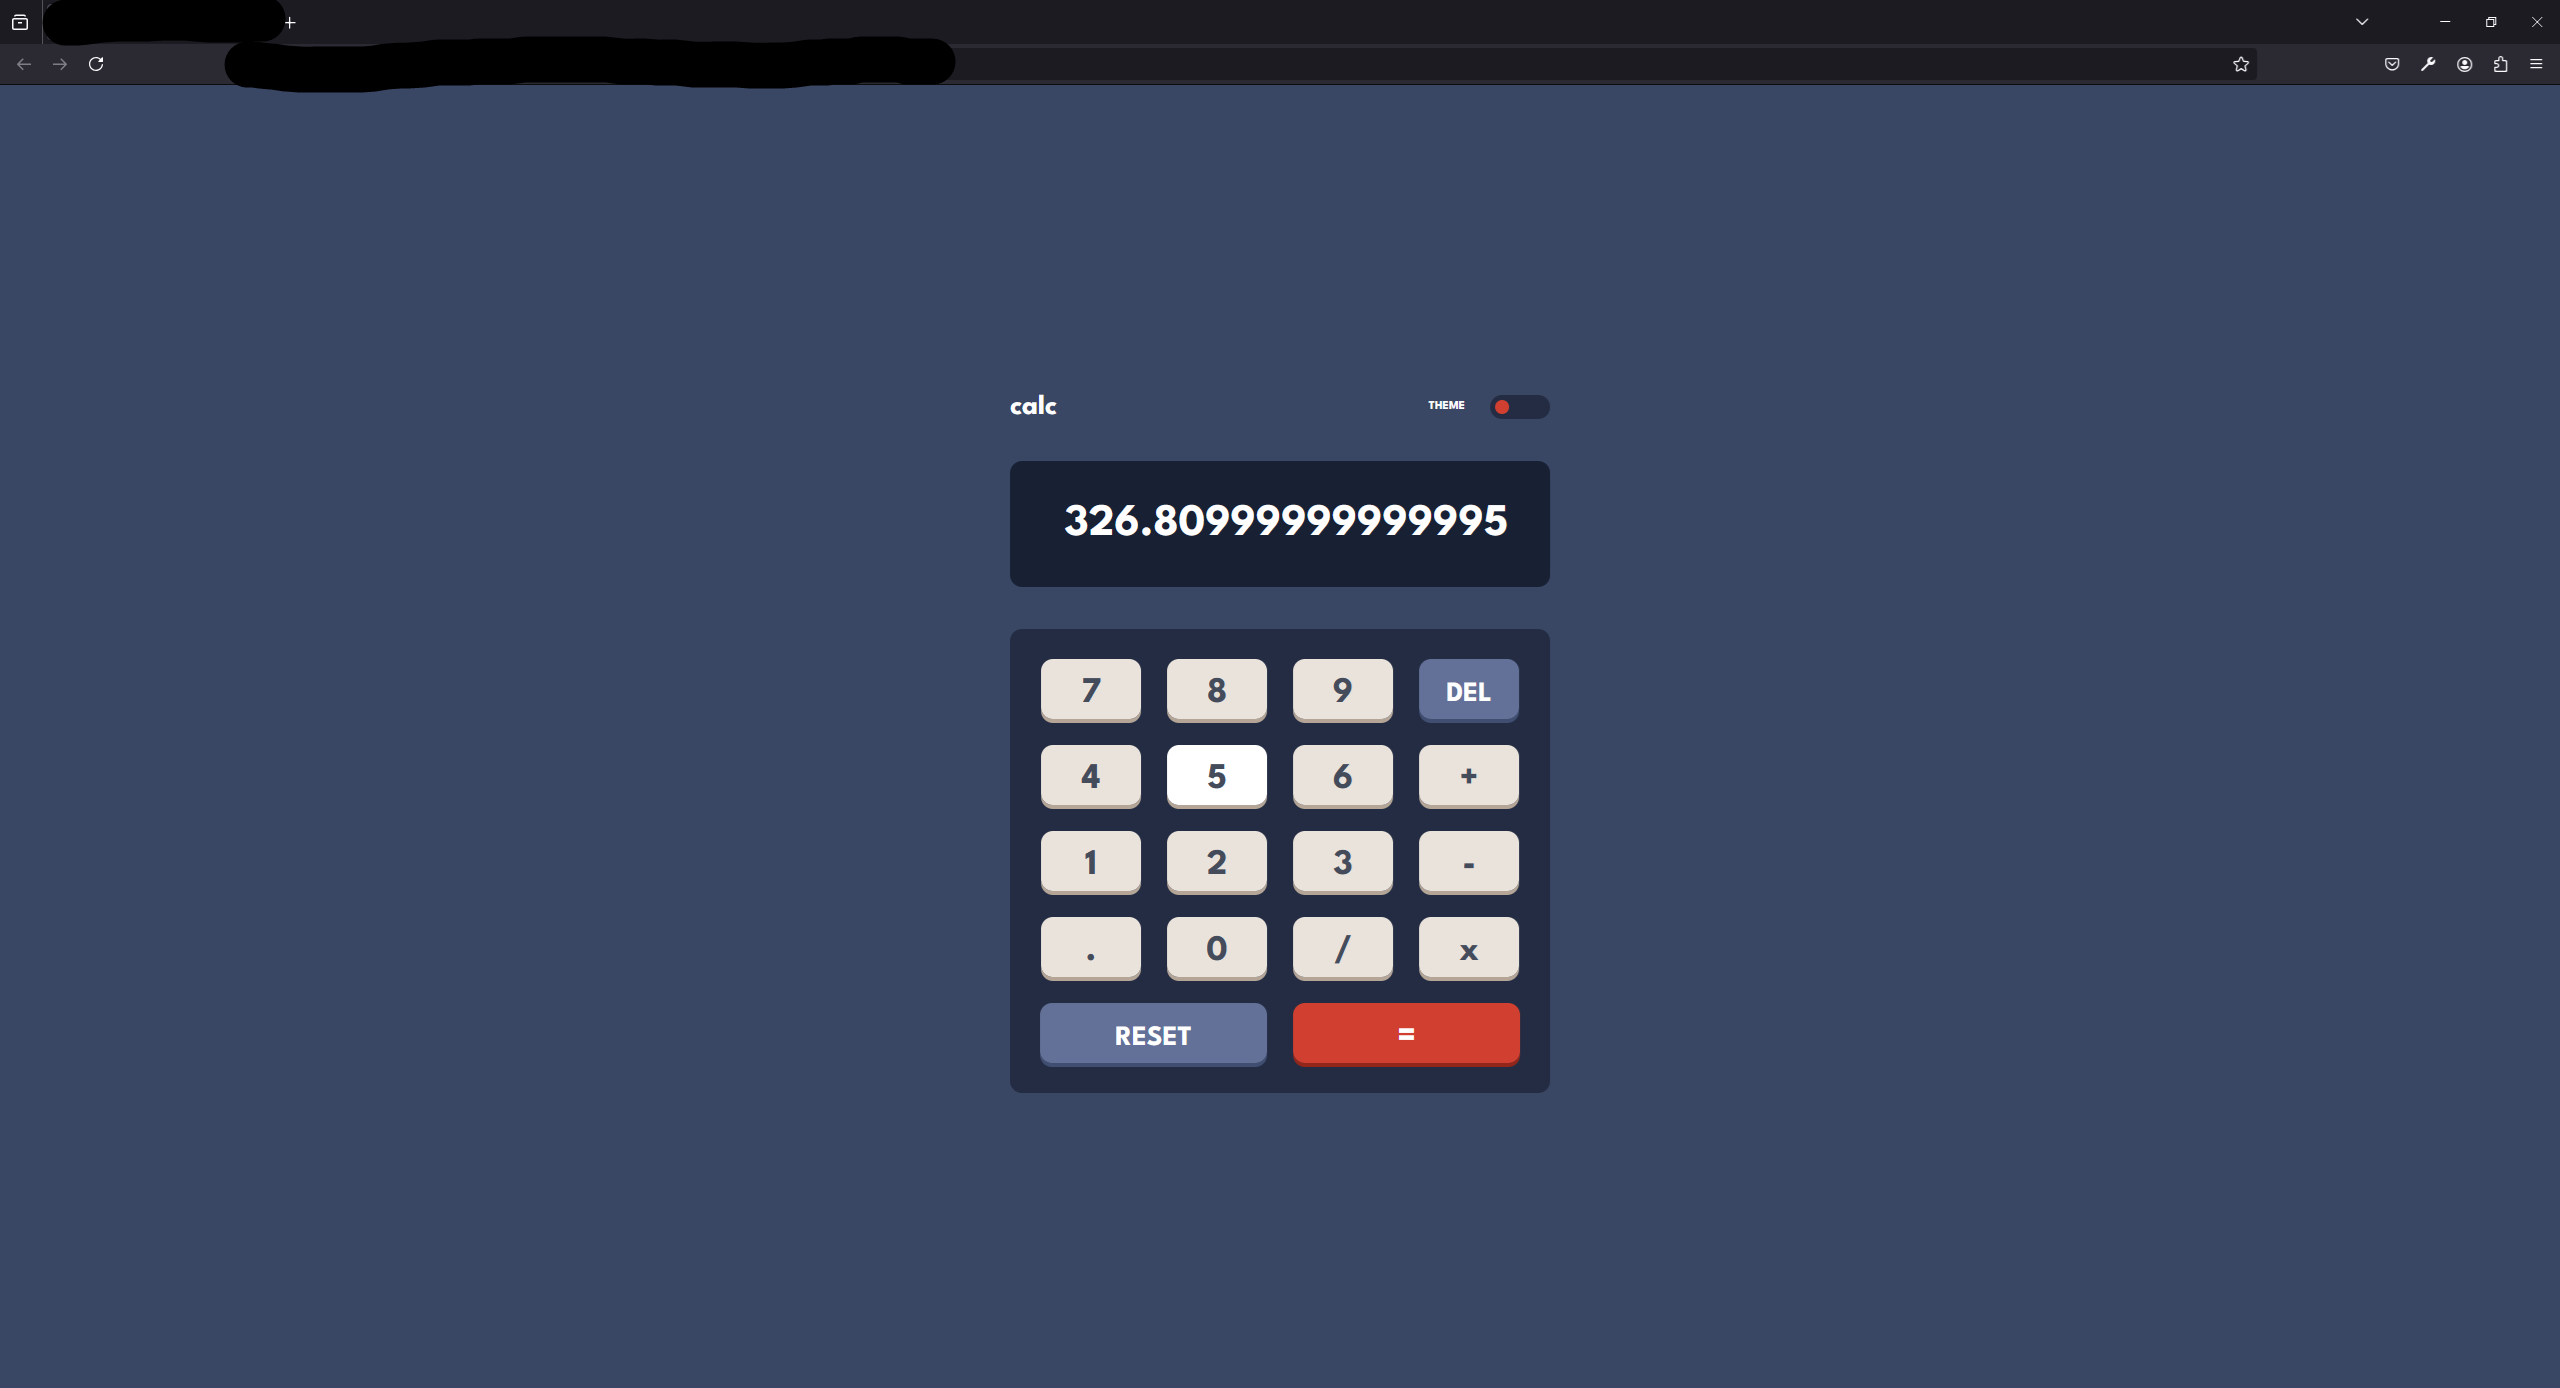
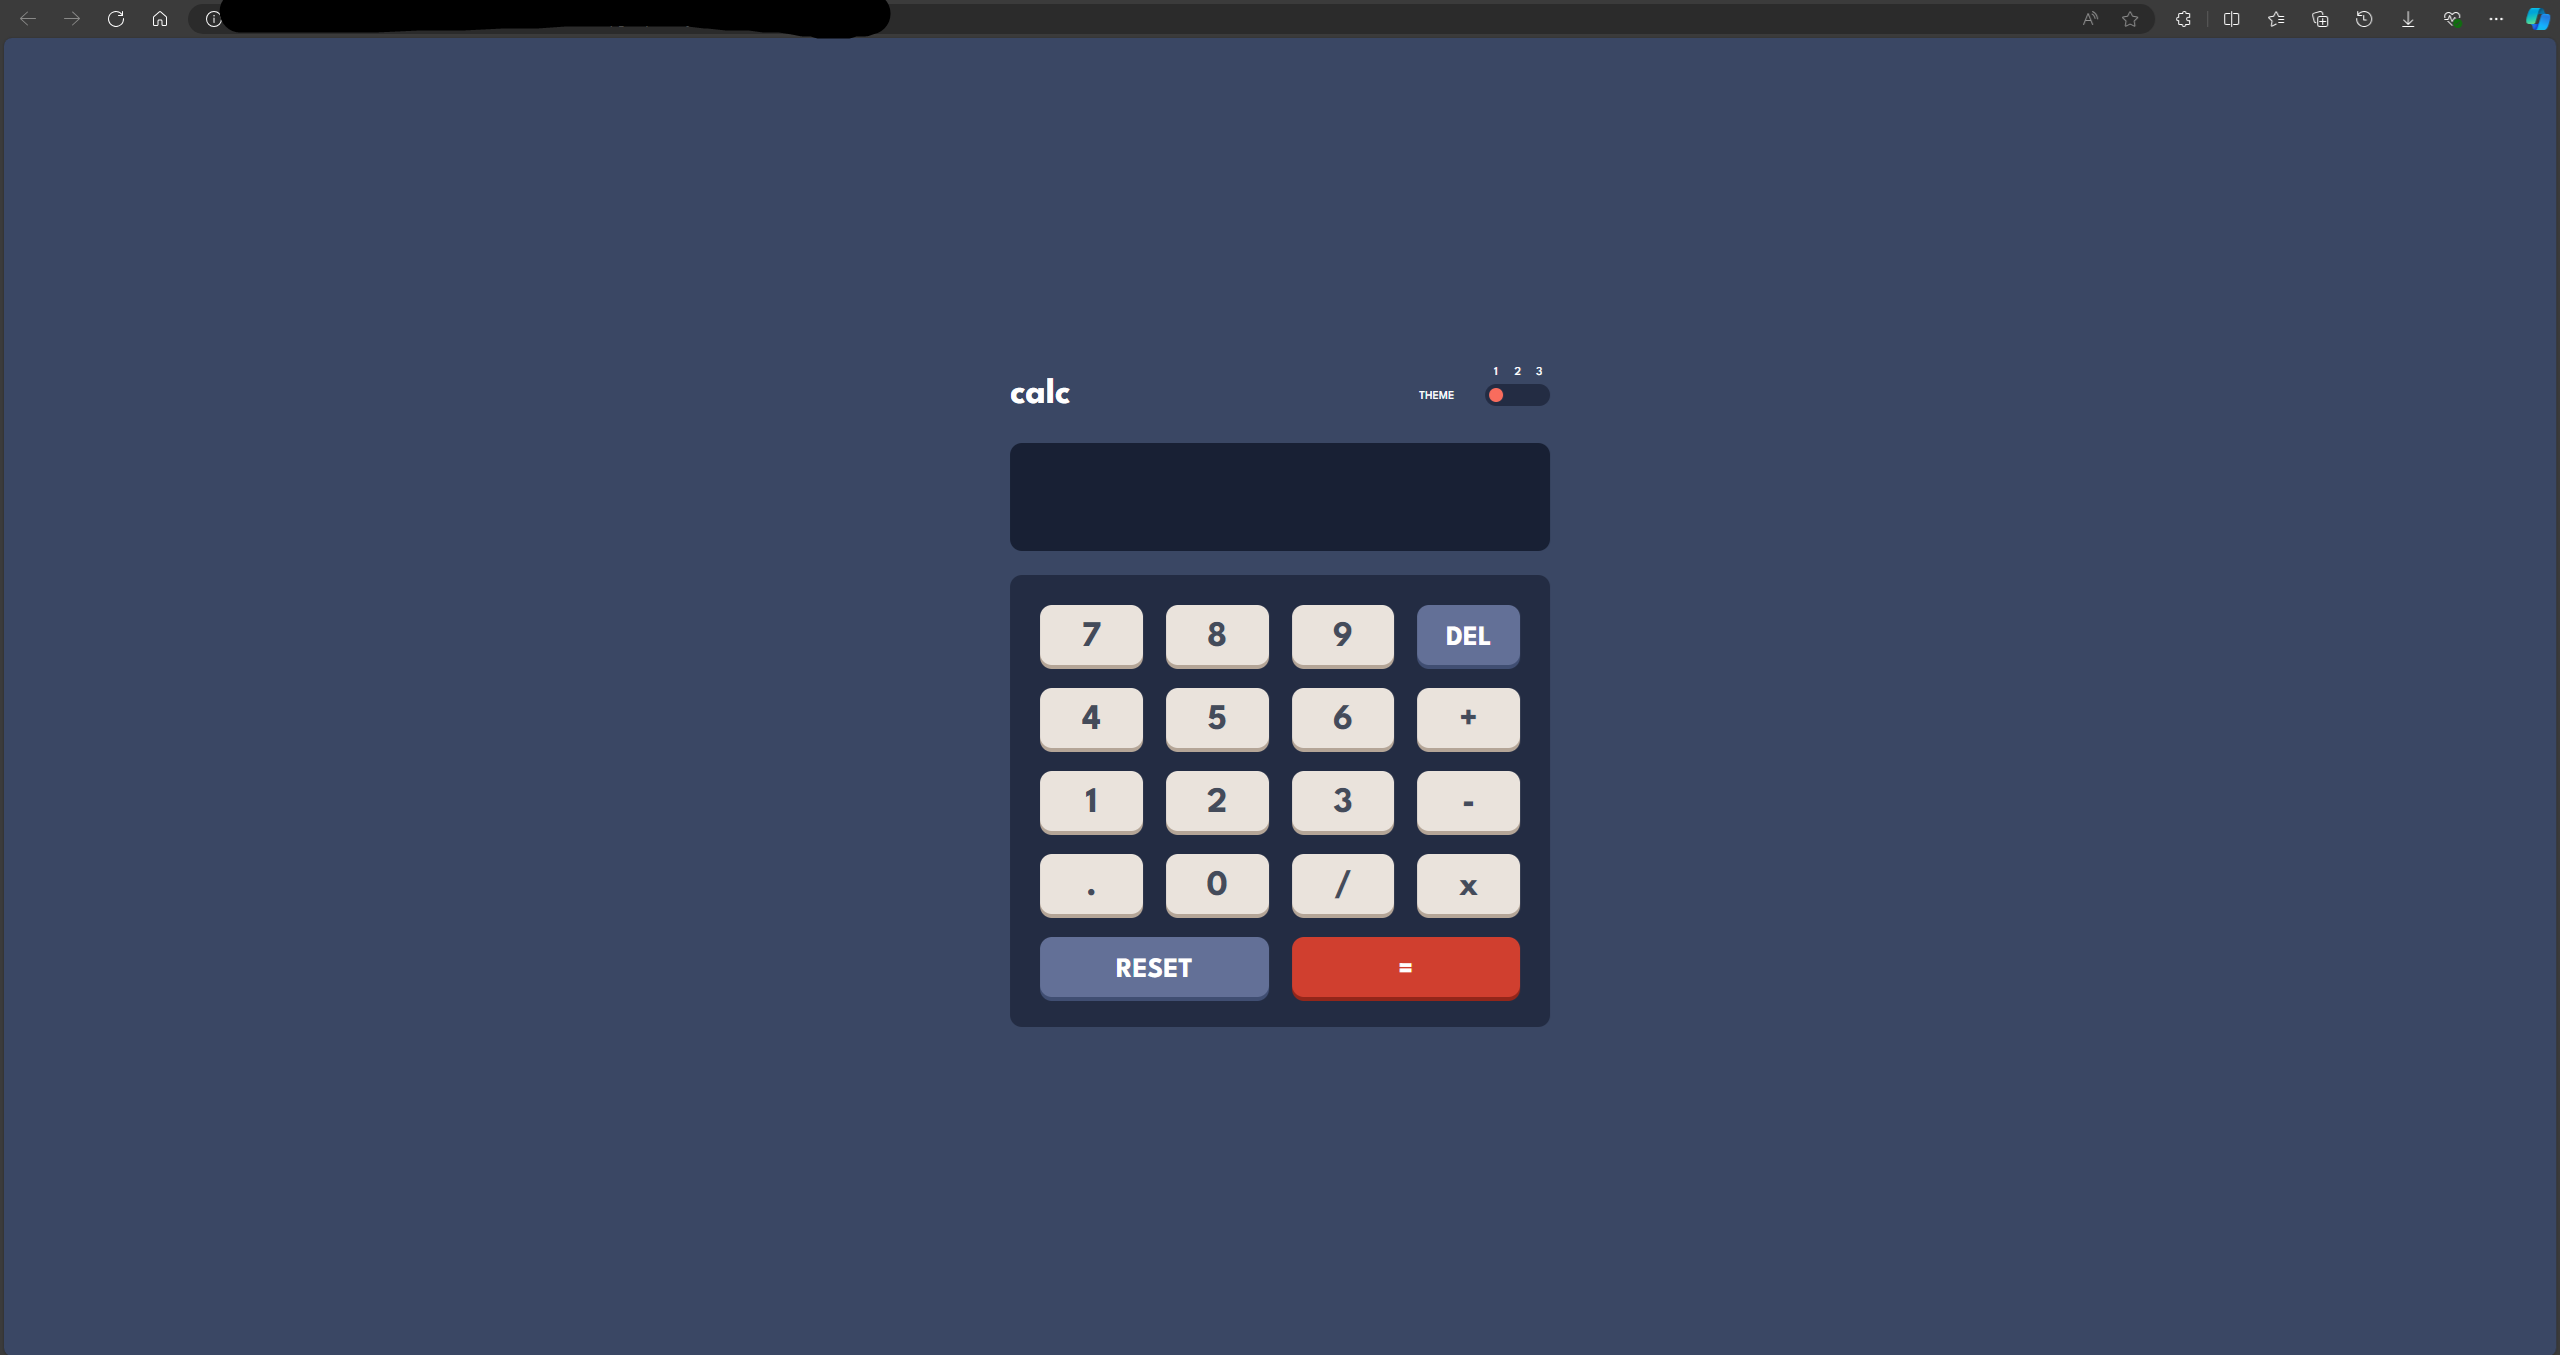
First Commit

Changed region(s): [[0.375, 0.279, 0.625, 0.8059], [0.0, 0.0, 1.0, 0.093]]

diff --git a/style.css b/style.css
@@ -1,5 +1,9 @@
 @import "css/default.css";
 
+* {
+    font-family: "League Spartan", sans-serif;
+}
+
 html, body {
     margin: 0;
     padding: 0;
@@ -12,10 +16,6 @@ body {
     display: grid;
     justify-content: center;
     align-items: center;
-}
-
-h1 h2 h3 p {
-    font-family: "League Spartan", sans-serif;
 }
 
 .app {
@@ -57,6 +57,9 @@ header .theme-toggle-name {
 header .theme-toggle-name p {
     margin: 0;
     font-size: 12px;
+    font-weight: 500;
+
+    padding-top: 4px;
 }
 
 header .toggle-input-count {
@@ -75,6 +78,7 @@ header .toggle-input-count p {
     padding: 0;
 
     font-size: 12px;
+    font-weight: 500;
 }
 
 header .toggle-input {
@@ -159,13 +163,14 @@ main .buttons-background .buttons-container button {
     height: 60px;
 
     font-size: 36px;
-    font-weight: bold;
+    font-weight: 700;
 
     border: none;
     border-radius: 12px;
 
     margin: 0;
-    padding: 0;
+    padding-top: 6px;
+
     cursor: pointer;
 }
 
@@ -187,4 +192,66 @@ main .buttons-background .buttons-container button:nth-child(18) {
     grid-column: 3 / 5;
 
     font-size: 28px;
+}
+
+@media (max-width: 540px) {
+    .app {
+        width: 326px;
+    }
+
+    header {
+        grid-template-columns: 50% 30% 20%;
+    }
+    
+    header #h1-logo {
+        grid-row-start: 1;
+        grid-row-end: 2;
+    }
+
+    header .theme-toggle-name p {
+        font-weight: 600;
+        padding-top: 5px;
+    }
+
+    header .toggle-input-count p {
+        font-weight: 700;
+    }
+
+    header .toggle-input {
+        padding: 5px 0;
+    }
+
+    main .result-background {
+        padding: 32px 25px;
+    }
+
+    main .buttons-background {
+        padding: 25px;
+    }
+
+    main .buttons-background .buttons-container {
+        grid-gap: 13px;
+    }
+
+    main .buttons-background .buttons-container button {
+        font-size: 32px;
+
+        padding-top: 8px;
+        border-radius: 6px;
+    }
+
+    main .buttons-background .buttons-container button:nth-child(4) {
+        padding-top: 4px;
+        font-size: 20px;
+    }
+
+    main .buttons-background .buttons-container button:nth-child(17) {
+        padding-top: 4px;
+        font-size: 20px;
+    }
+
+    main .buttons-background .buttons-container button:nth-child(18) {
+        padding-top: 4px;
+        font-size: 20px;
+    }
 }

diff --git a/js/themes.js b/js/themes.js
@@ -2,11 +2,12 @@ function switchTheme() {
     const bodyColor = document.getElementsByTagName('body')[0];
     const p1 = document.getElementsByClassName('p1');
 
+    const inputBackground = document.getElementById('input-background');
+    const switchBtn = document.getElementsByClassName('switchBtn');
+
     const resultBackground = document.getElementById('res-bg');
     const displayBackground = document.getElementById('display');
-
     const buttonsBackground = document.getElementById('buttons-bg');
-    const switchBtn = document.getElementsByClassName('switchBtn');
 
     const buttonSymbols = document.getElementsByClassName('button-symbol');
     const buttonRemove = document.getElementsByClassName('button-remove');
@@ -15,6 +16,7 @@ function switchTheme() {
     const themes = [
         {
             bodyBackgroundColor: 'hsl(222, 26%, 31%)',
+            inputBackgroundColor: 'hsl(223, 31%, 20%)',
             resultBackgroundColor: 'hsl(224, 36%, 15%)',
             displayBackgroundColor: 'hsl(224, 36%, 15%)',
             buttonsBackgroundColor: 'hsl(223, 31%, 20%)',
@@ -43,6 +45,7 @@ function switchTheme() {
         },
         {
             bodyBackgroundColor: 'hsl(0, 0%, 90%)',
+            inputBackgroundColor: 'hsl(0, 5%, 81%)',
             resultBackgroundColor: 'hsl(0, 0%, 93%)',
             displayBackgroundColor: 'hsl(0, 0%, 93%)',
             buttonsBackgroundColor: 'hsl(0, 5%, 81%)',
@@ -71,6 +74,7 @@ function switchTheme() {
         },
         {
             bodyBackgroundColor: 'hsl(268, 75%, 9%)',
+            inputBackgroundColor: 'hsl(268, 71%, 12%)',
             resultBackgroundColor: 'hsl(268, 71%, 12%)',
             displayBackgroundColor: 'hsl(268, 71%, 12%)',
             buttonsBackgroundColor: 'hsl(268, 71%, 12%)',
@@ -101,6 +105,7 @@ function switchTheme() {
 
     const applyTheme = (theme) => {
         bodyColor.style.backgroundColor = theme.bodyBackgroundColor;
+        inputBackground.style.backgroundColor = theme.inputBackgroundColor;
         resultBackground.style.backgroundColor = theme.resultBackgroundColor;
         displayBackground.style.backgroundColor = theme.displayBackgroundColor;
         buttonsBackground.style.backgroundColor = theme.buttonsBackgroundColor;

diff --git a/index.html b/index.html
@@ -23,7 +23,7 @@
             <p class="p1">2</p>
             <p class="p1">3</p>
         </div>
-        <div class="toggle-input">
+        <div class="toggle-input" id="input-background">
             <input class="switchBtn" id="one" name="toggle" onclick="switchTheme()" tabindex="0" type="radio" value="0"/>
             <input class="switchBtn" id="two" name="toggle" onclick="switchTheme()" tabindex="0" type="radio" value="1"/>
             <input class="switchBtn" id="three" name="toggle" onclick="switchTheme()" tabindex="0" type="radio" value="2"/>

diff --git a/README.md b/README.md
@@ -10,6 +10,7 @@ Frontend Mentor challenges help you improve your coding skills by building reali
     - [Screenshot #1](#screenshot-1)
     - [Screenshot #2](#screenshot-2)
     - [Screenshot #3](#screenshot-3)
+    - [Screenshot #4](#screenshot-4)
     - [Links](#links)
 - [My process](#my-process)
     - [Built with](#built-with)
@@ -38,6 +39,10 @@ as an actual app with nodeJS ;)
 
 ![](/assets/screenshots/screenshot-3.png)
 
+### Screenshot #4
+
+![](assets/screenshots/screenshot-4.png)
+
 ### Links
 
 - [Solution URL]()
@@ -59,4 +64,4 @@ As I already said, I've used only vanilla instruments:
 ### What I have learnt
 
 Well, basically I've and still learning to work with vanilla web development instruments and to create balance between them. I found some new (for me) JS
-functionality, methods, etc. Also I had practice with loops, arrays. It's always good to have practice ;)
+functionality, methods, etc. Also, I had practice with JS loops, arrays and css grid. It's always good to have some practice ;)
